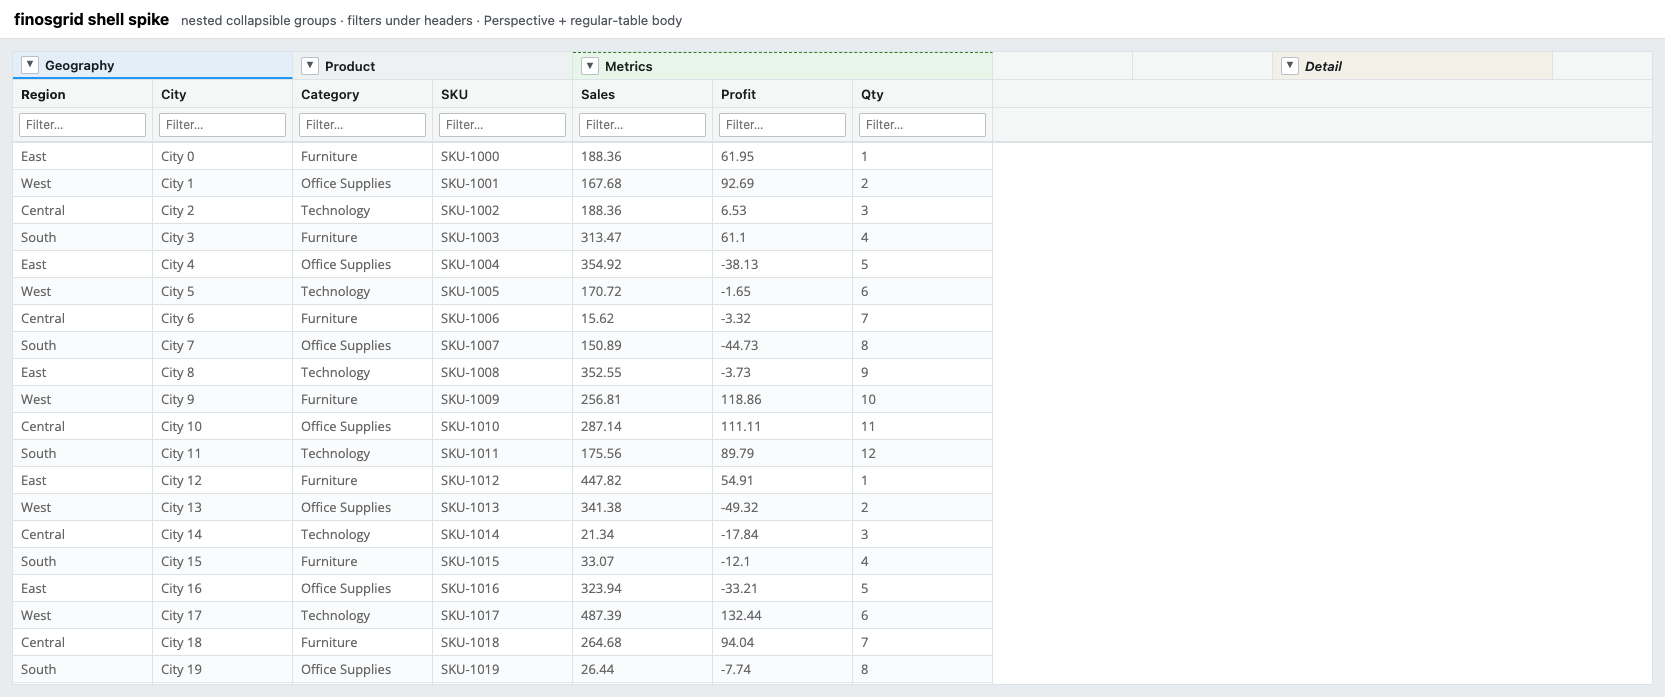
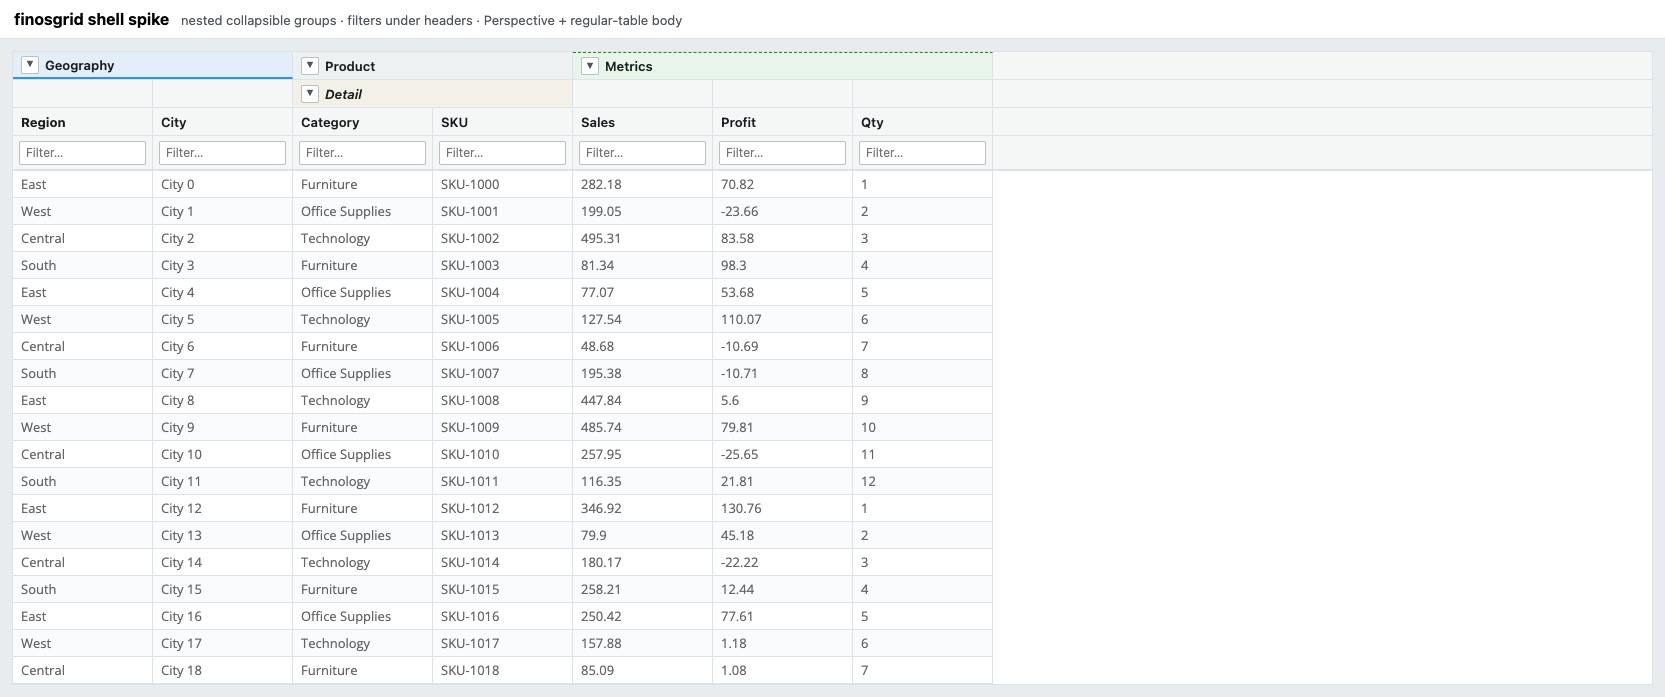
fix(shell): stack nested group header rows vertically
Group rows were flexing horizontally, so the Detail band sat beside
Metrics and looked like empty columns after the metrics group.

diff --git a/packages/datagrid/src/less/shell/header_stack.less b/packages/datagrid/src/less/shell/header_stack.less
@@ -26,7 +26,14 @@
     z-index: 2;
 }
 
-.fg-shell__group-rows,
+.fg-shell__group-rows {
+    display: flex;
+    flex-direction: column;
+    flex: 0 0 auto;
+    overflow: hidden;
+}
+
+.fg-shell__group-row,
 .fg-shell__leaf-row,
 .fg-shell__filter-row {
     display: flex;